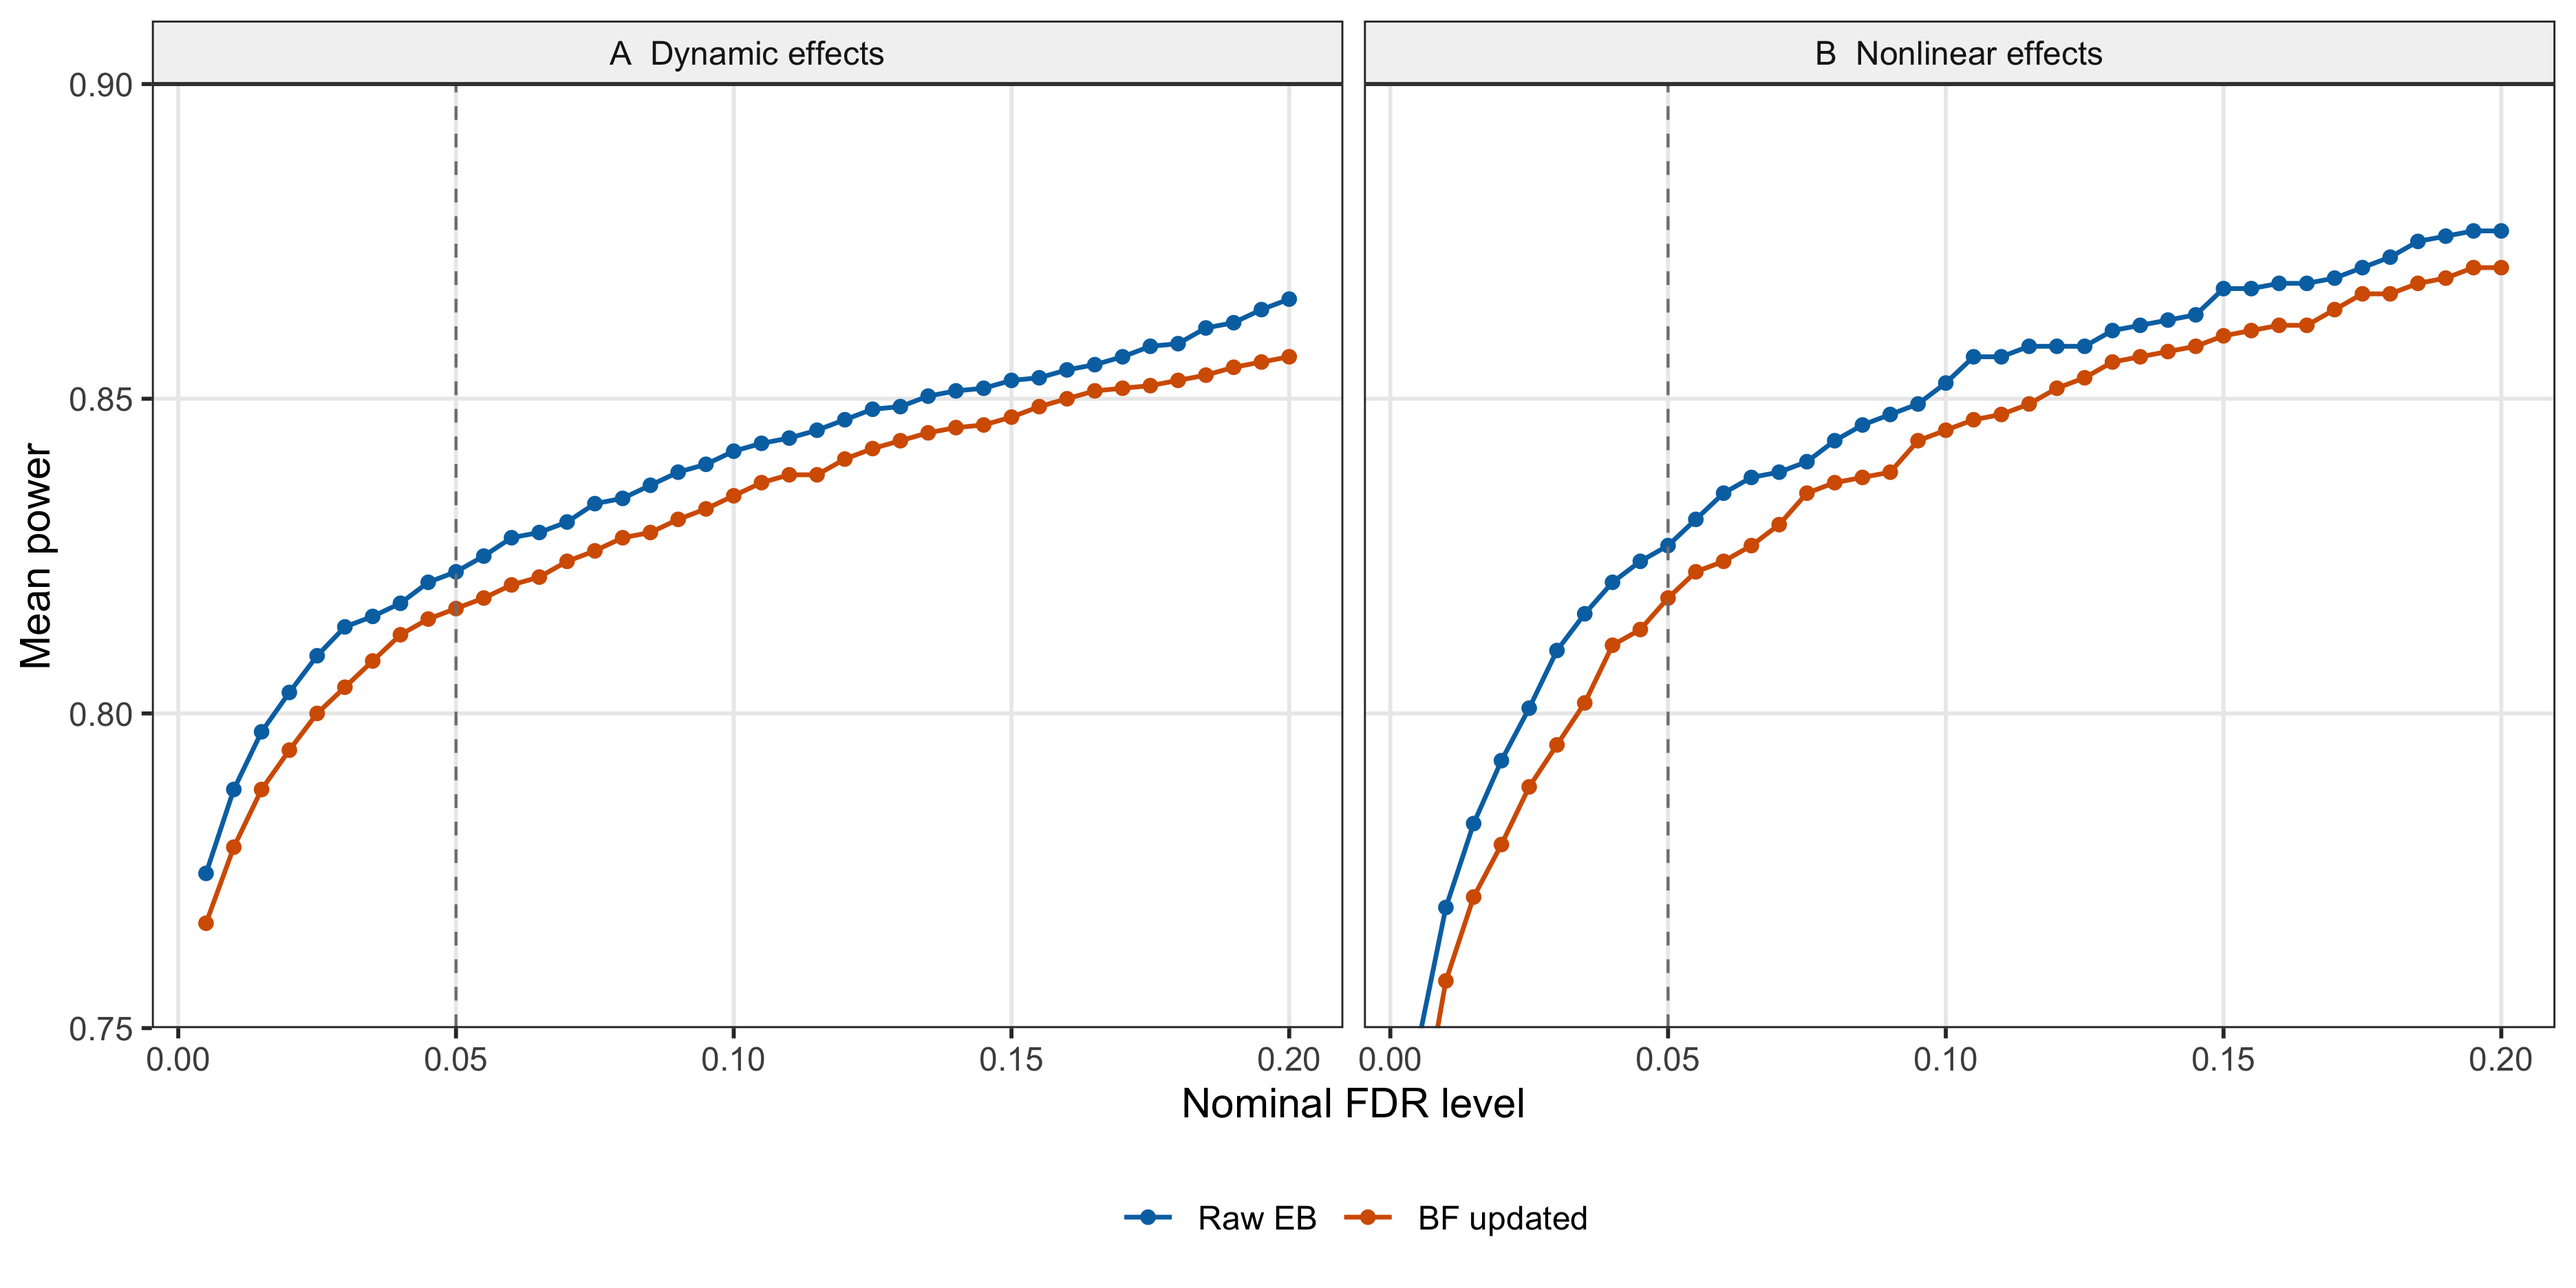
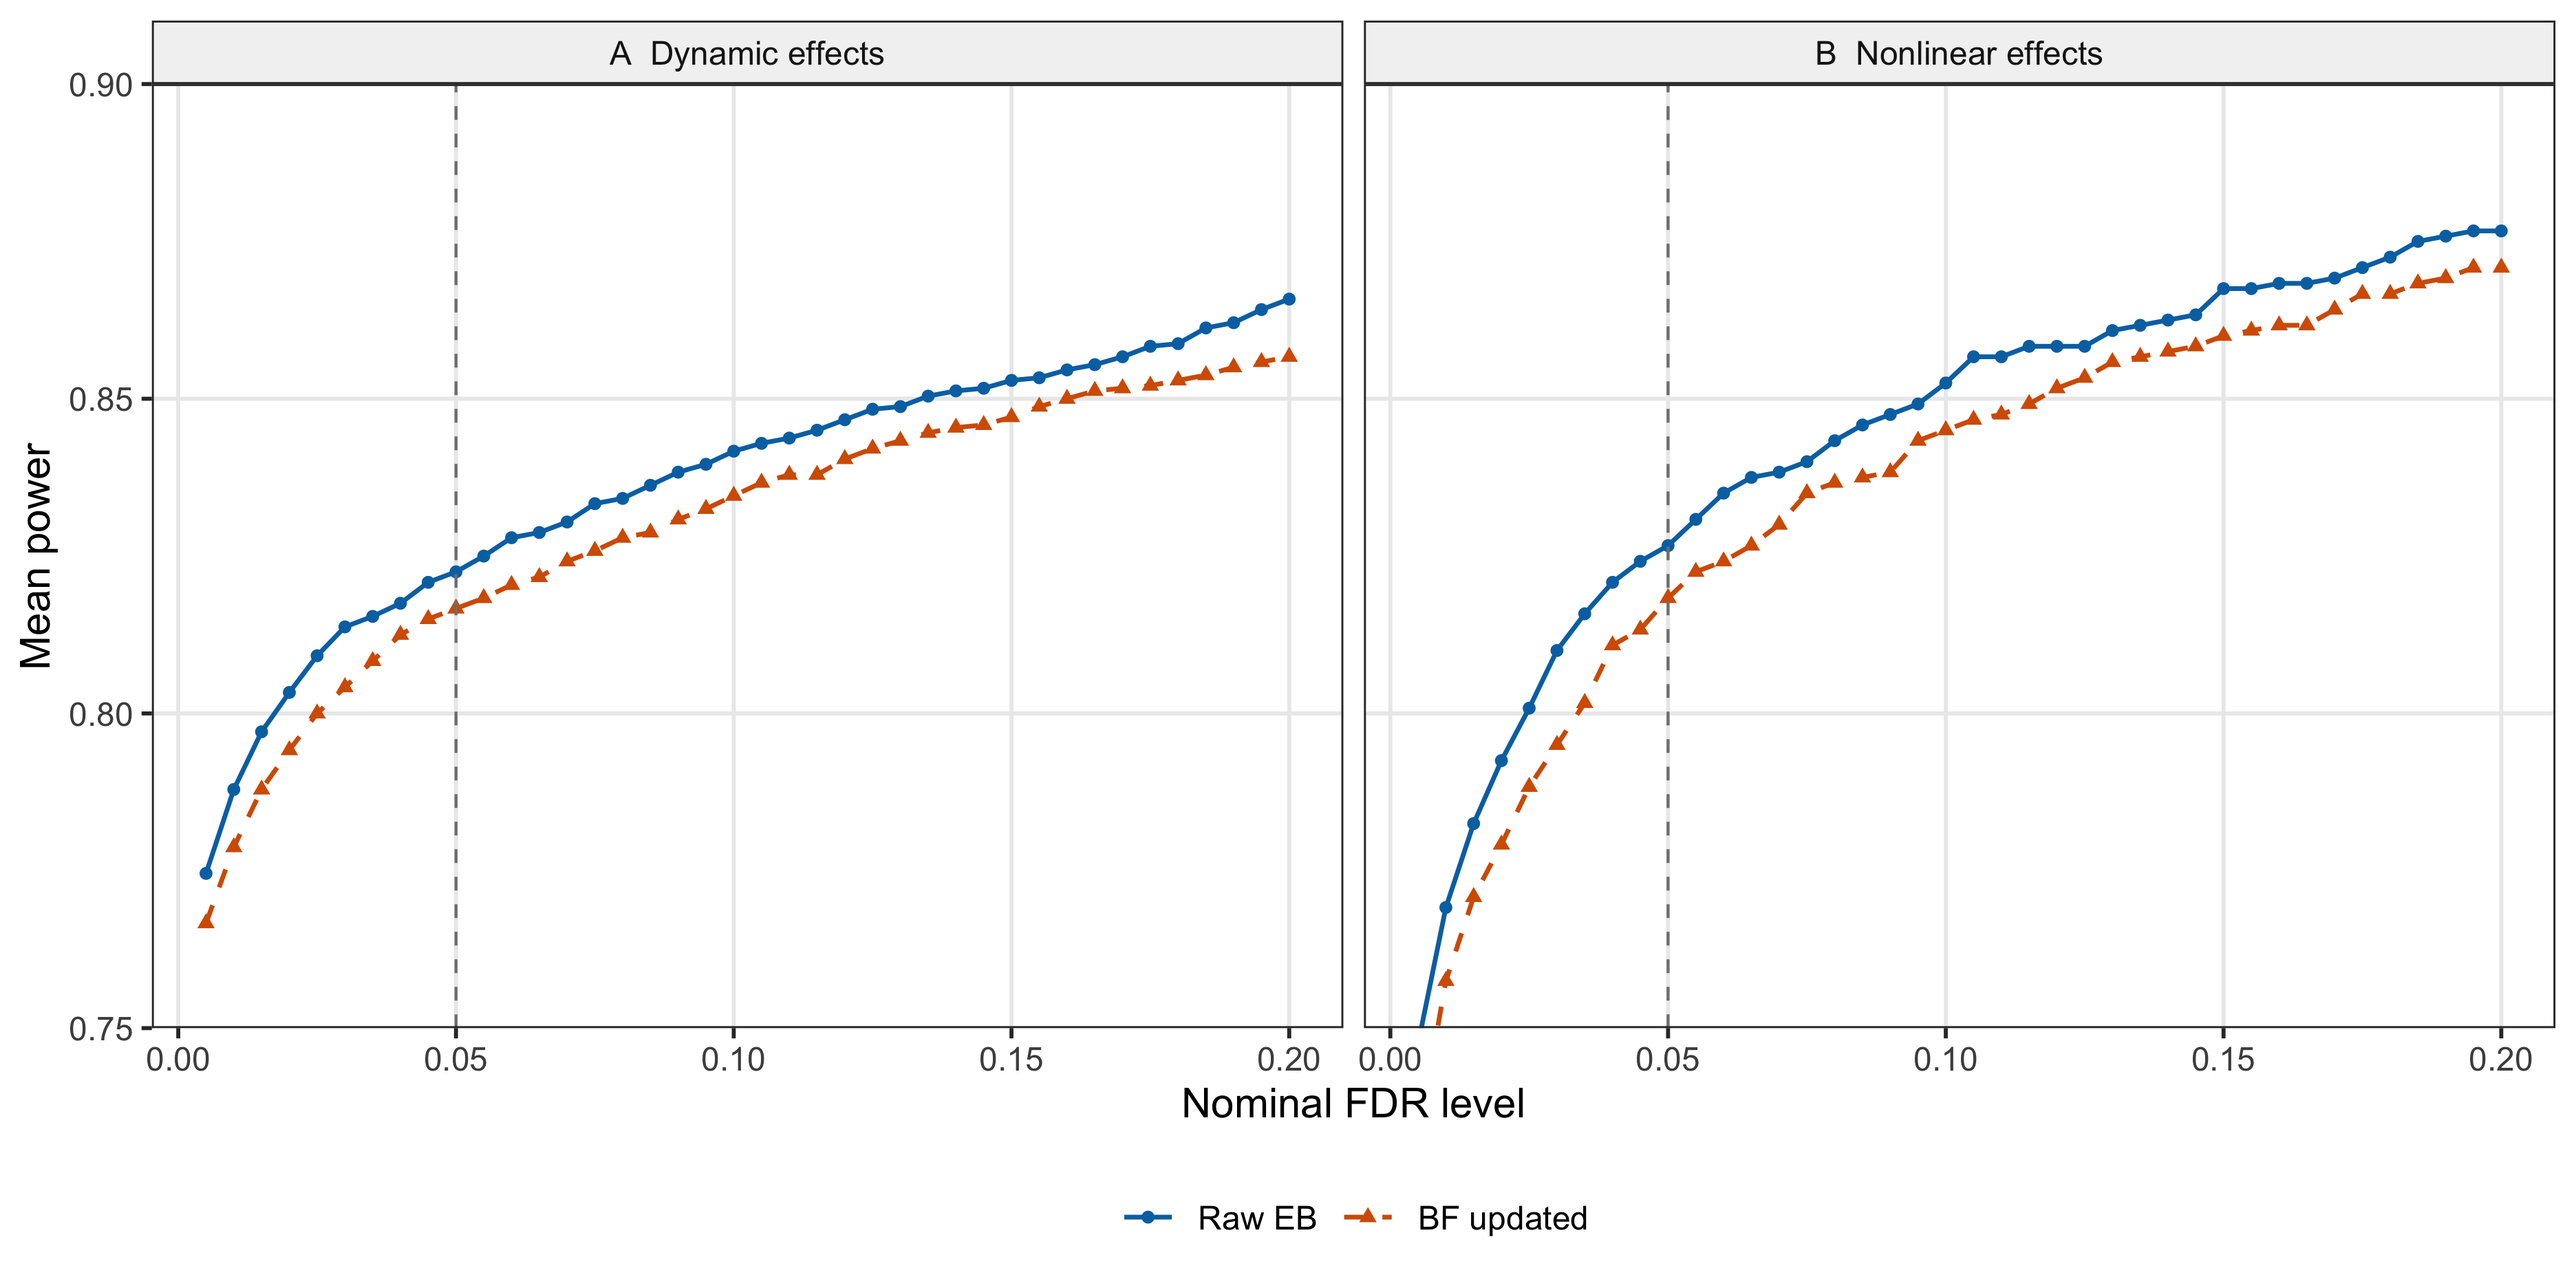
Publish distinct BF-updated marker and line styling

diff --git a/docs/appendixB.html b/docs/appendixB.html
@@ -526,15 +526,15 @@ project makes it easier to run your code on other machines.</p>
 <div class="panel panel-default">
 <div class="panel-heading">
 <p class="panel-title">
-<a data-toggle="collapse" data-parent="#workflowr-checks" href="#strongRepositoryversionstrongahrefhttpsgithubcomAgueroZZfashrevisiontree6e7a5888aac91cfc31c8e8761bb01efcb5d9cd09targetblank6e7a588a">
+<a data-toggle="collapse" data-parent="#workflowr-checks" href="#strongRepositoryversionstrongahrefhttpsgithubcomAgueroZZfashrevisiontreeb8e443d543283803aa65f9929bf42d1695649fectargetblankb8e443da">
 <span class="glyphicon glyphicon-ok text-success"
 aria-hidden="true"></span> <strong>Repository version:</strong>
-<a href="https://github.com/AgueroZZ/fash-revision/tree/6e7a5888aac91cfc31c8e8761bb01efcb5d9cd09" target="_blank">6e7a588</a>
+<a href="https://github.com/AgueroZZ/fash-revision/tree/b8e443d543283803aa65f9929bf42d1695649fec" target="_blank">b8e443d</a>
 </a>
 </p>
 </div>
 <div
[2 lines of base64/hex data omitted]
 class="panel-collapse collapse">
 <div class="panel-body">
 <p>
@@ -544,7 +544,7 @@ reproducibility.
 </p>
 <p>
 The results in this page were generated with repository version
-<a href="https://github.com/AgueroZZ/fash-revision/tree/6e7a5888aac91cfc31c8e8761bb01efcb5d9cd09" target="_blank">6e7a588</a>.
+<a href="https://github.com/AgueroZZ/fash-revision/tree/b8e443d543283803aa65f9929bf42d1695649fec" target="_blank">b8e443d</a>.
 See the <em>Past versions</em> tab to see a history of the changes made
 to the R Markdown and HTML files.
 </p>
@@ -565,7 +565,6 @@ Ignored files:
     Ignored:    Rplots.pdf
     Ignored:    analysis/.DS_Store
     Ignored:    analysis/.Rhistory
-    Ignored:    analysis/figure/
     Ignored:    analysis/site_libs/
     Ignored:    code/.DS_Store
     Ignored:    code/.Rhistory
@@ -645,6 +644,40 @@ Message
 </tr>
 </thead>
 <tbody>
+<tr>
+<td>
+Rmd
+</td>
+<td>
+<a href="https://github.com/AgueroZZ/fash-revision/blob/b8e443d543283803aa65f9929bf42d1695649fec/analysis/appendixB.rmd" target="_blank">b8e443d</a>
+</td>
+<td>
+Ziang Zhang
+</td>
+<td>
+2026-09-18
+</td>
+<td>
+Distinguish BF-updated curves with triangles and dashed lines
+</td>
+</tr>
+<tr>
+<td>
+html
+</td>
+<td>
+<a href="https://rawcdn.githack.com/AgueroZZ/fash-revision/95b4dba57b884b82c1b539cc4ac1beaa29ca2a0f/docs/appendixB.html" target="_blank">95b4dba</a>
+</td>
+<td>
+Ziang Zhang
+</td>
+<td>
+2026-09-18
+</td>
+<td>
+Publish mean point-and-line power and FDR figures
+</td>
+</tr>
 <tr>
 <td>
 Rmd
@@ -1032,25 +1065,30 @@ ten-repetition means.</p>
 <pre class="r"><code>power_curves &lt;- alpha_summary[, c(&quot;order&quot;, &quot;stage&quot;, &quot;alpha&quot;, &quot;mean_power&quot;,
   &quot;power_min&quot;, &quot;power_max&quot;, &quot;n_replicates&quot;)]
 stopifnot(all(power_curves$n_replicates == 10L))
-power_curves$stage &lt;- factor(power_curves$stage, c(&quot;Raw EB&quot;, &quot;BF updated&quot;))
+power_curves$stage &lt;- factor(power_curves$stage, names(method_shapes))
+stopifnot(!anyNA(power_curves$stage))
 power_curves$panel &lt;- factor(power_curves$order, c(&quot;IWP1&quot;, &quot;IWP2&quot;),
   c(&quot;A  Dynamic effects&quot;, &quot;B  Nonlinear effects&quot;))
-ggplot(power_curves, aes(alpha, mean_power, color = stage)) +
+ggplot(power_curves, aes(alpha, mean_power, color = stage,
+  shape = stage, linetype = stage)) +
   geom_line(linewidth = 0.65) + geom_point(size = 1.4) +
   geom_vline(xintercept = 0.05, color = &quot;grey50&quot;, linetype = &quot;dashed&quot;, linewidth = 0.4) +
   facet_wrap(~panel, nrow = 1) +
   scale_color_manual(values = c(&quot;Raw EB&quot; = &quot;#0072B2&quot;, &quot;BF updated&quot; = &quot;#D55E00&quot;)) +
+  scale_shape_manual(values = method_shapes) +
+  scale_linetype_manual(values = method_linetypes) +
   scale_y_continuous(breaks = seq(0.75, 0.90, by = 0.05),
     expand = expansion(mult = 0)) +
   coord_cartesian(ylim = c(0.75, 0.90)) +
-  labs(x = &quot;Nominal FDR level&quot;, y = &quot;Mean power&quot;, color = NULL, fill = NULL) + c1_plot_theme()</code></pre>
+  labs(x = &quot;Nominal FDR level&quot;, y = &quot;Mean power&quot;, color = NULL, shape = NULL, linetype = NULL) + c1_plot_theme()</code></pre>
 <div class="figure" style="text-align: center">
-<img src="figure/appendixB.rmd/power-1.png" alt="Figure 3. Mean discovery power over ten repetitions (J = 1,200). Panels A and B show dynamic and nonlinear testing. Points connected by lines show ten-repetition mean power. The vertical line marks nominal FDR 0.05." width="1872" />
+<img src="figure/appendixB.rmd/power-1.png" alt="Figure 3. Mean discovery power over ten repetitions (J = 1,200). Panels A and B show dynamic and nonlinear testing. Points connected by lines show ten-repetition mean power. Raw EB uses circles and solid lines; BF updated uses triangles and dashed lines. The vertical line marks nominal FDR 0.05." width="1872" />
 <p class="caption">
 Figure 3. Mean discovery power over ten repetitions (J = 1,200). Panels
 A and B show dynamic and nonlinear testing. Points connected by lines
-show ten-repetition mean power. The vertical line marks nominal FDR
-0.05.
+show ten-repetition mean power. Raw EB uses circles and solid lines; BF
+updated uses triangles and dashed lines. The vertical line marks nominal
+FDR 0.05.
 </p>
 </div>
 <p>
@@ -1077,6 +1115,17 @@ Date
 <tbody>
 <tr>
 <td>
+<a href="https://github.com/AgueroZZ/fash-revision/blob/95b4dba57b884b82c1b539cc4ac1beaa29ca2a0f/docs/figure/appendixB.rmd/power-1.png" target="_blank">95b4dba</a>
+</td>
+<td>
+Ziang Zhang
+</td>
+<td>
+2026-09-18
+</td>
+</tr>
+<tr>
+<td>
 <a href="https://github.com/AgueroZZ/fash-revision/blob/dea1967ac33c8391d3d836a338f802a90237f7be/docs/figure/appendixB.rmd/power-1.png" target="_blank">dea1967</a>
 </td>
 <td>
@@ -1093,24 +1142,29 @@ Ziang Zhang
 <pre class="r"><code>fdr_curves &lt;- alpha_summary[, c(&quot;order&quot;, &quot;stage&quot;, &quot;alpha&quot;, &quot;mean_empirical_fdr&quot;,
   &quot;empirical_fdr_min&quot;, &quot;empirical_fdr_max&quot;, &quot;n_replicates&quot;)]
 stopifnot(all(fdr_curves$n_replicates == 10L))
-fdr_curves$stage &lt;- factor(fdr_curves$stage, c(&quot;Raw EB&quot;, &quot;BF updated&quot;))
+fdr_curves$stage &lt;- factor(fdr_curves$stage, names(method_shapes))
+stopifnot(!anyNA(fdr_curves$stage))
 fdr_curves$panel &lt;- factor(fdr_curves$order, c(&quot;IWP1&quot;, &quot;IWP2&quot;),
   c(&quot;A  Dynamic effects&quot;, &quot;B  Nonlinear effects&quot;))
-ggplot(fdr_curves, aes(alpha, mean_empirical_fdr, color = stage)) +
+ggplot(fdr_curves, aes(alpha, mean_empirical_fdr, color = stage,
+  shape = stage, linetype = stage)) +
   geom_line(linewidth = 0.65) + geom_point(size = 1.4) +
   geom_abline(slope = 1, intercept = 0, color = &quot;grey35&quot;, linetype = &quot;dotted&quot;, linewidth = 0.4) +
   geom_vline(xintercept = 0.05, color = &quot;grey50&quot;, linetype = &quot;dashed&quot;, linewidth = 0.4) +
   facet_wrap(~panel, nrow = 1) +
   scale_color_manual(values = c(&quot;Raw EB&quot; = &quot;#0072B2&quot;, &quot;BF updated&quot; = &quot;#D55E00&quot;)) +
+  scale_shape_manual(values = method_shapes) +
+  scale_linetype_manual(values = method_linetypes) +
   coord_cartesian(ylim = c(0, max(0.2, 1.05 * fdr_curves$empirical_fdr_max))) +
-  labs(x = &quot;Nominal FDR level&quot;, y = &quot;Empirical FDR&quot;, color = NULL, fill = NULL) + c1_plot_theme()</code></pre>
+  labs(x = &quot;Nominal FDR level&quot;, y = &quot;Empirical FDR&quot;, color = NULL, shape = NULL, linetype = NULL) + c1_plot_theme()</code></pre>
 <div class="figure" style="text-align: center">
-<img src="figure/appendixB.rmd/empirical-fdr-1.png" alt="Figure 4. Empirical FDR over the same ten repetitions. Panels A and B show dynamic and nonlinear testing. Points connected by lines show the mean of replicate false-discovery proportions. The diagonal marks nominal calibration and the vertical line nominal FDR 0.05." width="1872" />
+<img src="figure/appendixB.rmd/empirical-fdr-1.png" alt="Figure 4. Empirical FDR over the same ten repetitions. Panels A and B show dynamic and nonlinear testing. Points connected by lines show the mean of replicate false-discovery proportions. Raw EB uses circles and solid lines; BF updated uses triangles and dashed lines. The diagonal marks nominal calibration and the vertical line nominal FDR 0.05." width="1872" />
 <p class="caption">
 Figure 4. Empirical FDR over the same ten repetitions. Panels A and B
 show dynamic and nonlinear testing. Points connected by lines show the
-mean of replicate false-discovery proportions. The diagonal marks
-nominal calibration and the vertical line nominal FDR 0.05.
+mean of replicate false-discovery proportions. Raw EB uses circles and
+solid lines; BF updated uses triangles and dashed lines. The diagonal
+marks nominal calibration and the vertical line nominal FDR 0.05.
 </p>
 </div>
 <p>
@@ -1135,6 +1189,17 @@ Date
 </tr>
 </thead>
 <tbody>
+<tr>
+<td>
+<a href="https://github.com/AgueroZZ/fash-revision/blob/95b4dba57b884b82c1b539cc4ac1beaa29ca2a0f/docs/figure/appendixB.rmd/empirical-fdr-1.png" target="_blank">95b4dba</a>
+</td>
+<td>
+Ziang Zhang
+</td>
+<td>
+2026-09-18
+</td>
+</tr>
 <tr>
 <td>
 <a href="https://github.com/AgueroZZ/fash-revision/blob/dea1967ac33c8391d3d836a338f802a90237f7be/docs/figure/appendixB.rmd/empirical-fdr-1.png" target="_blank">dea1967</a>
